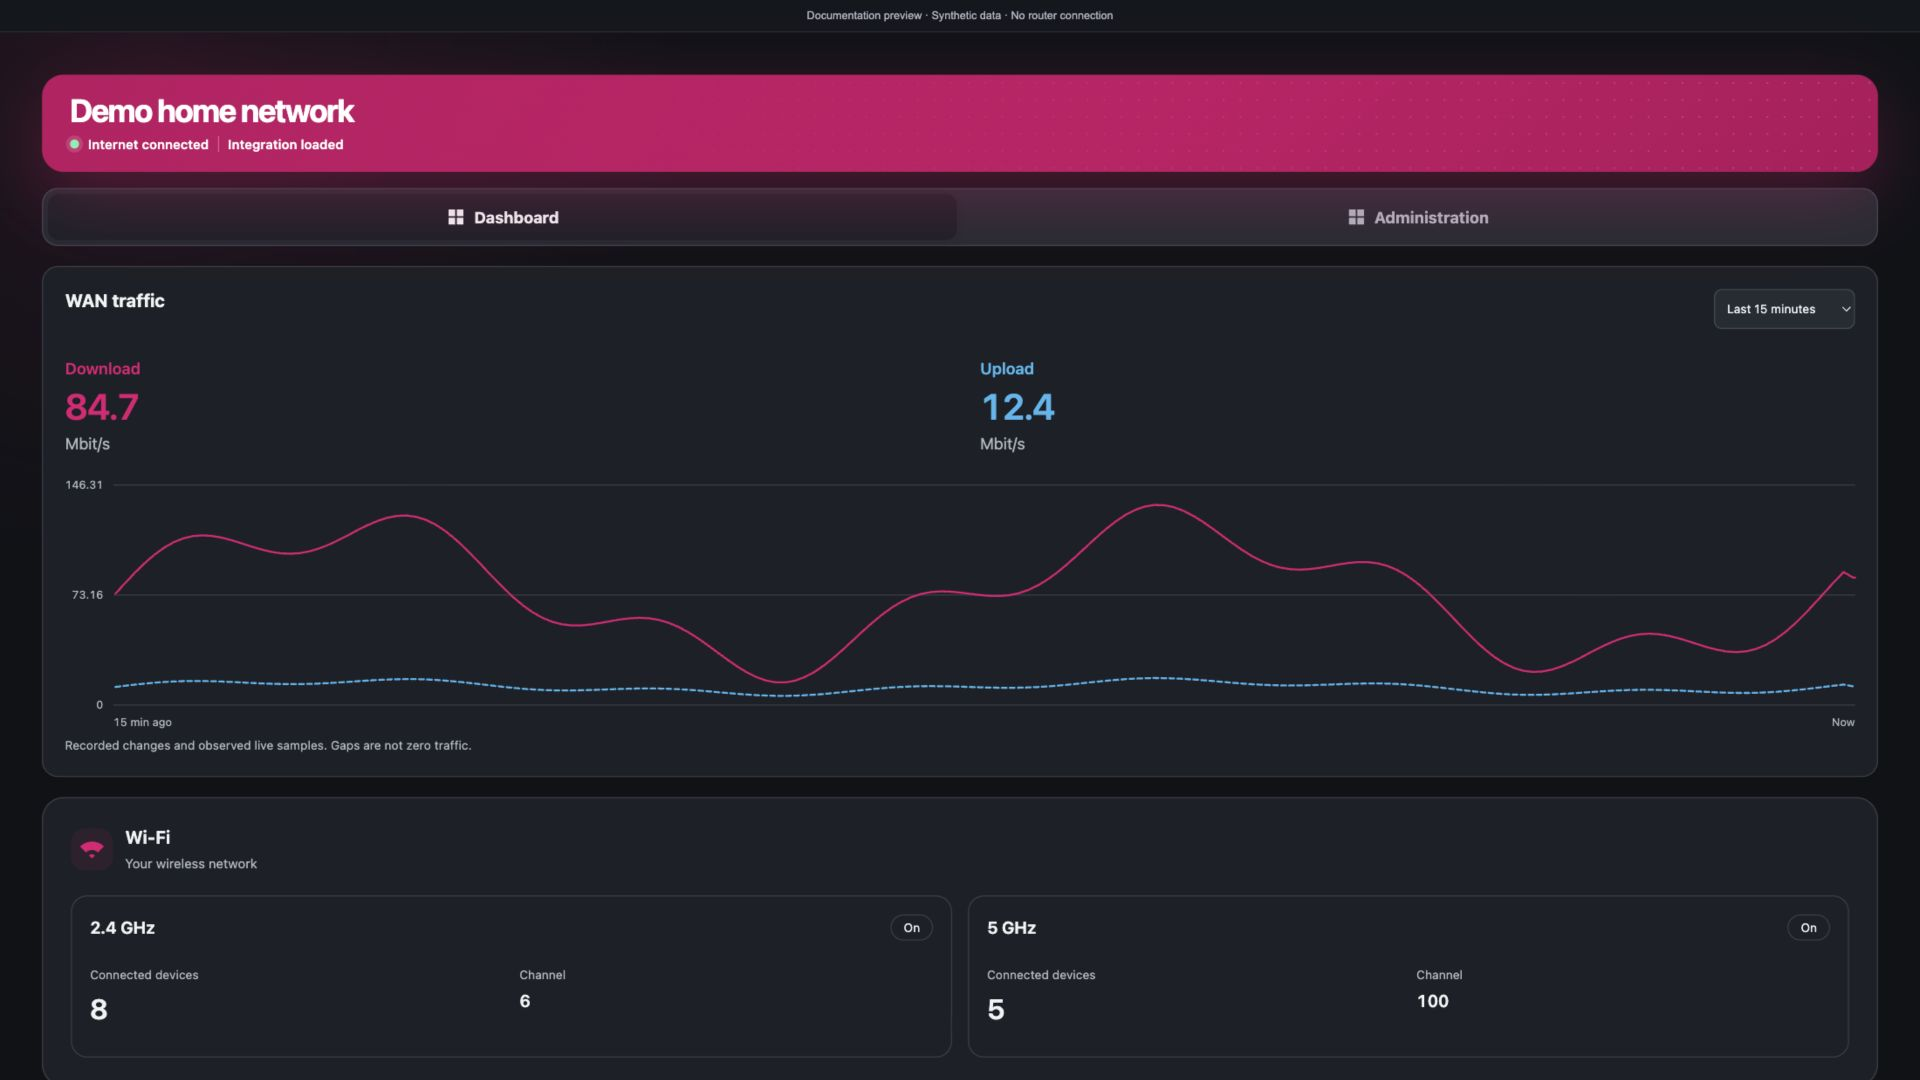
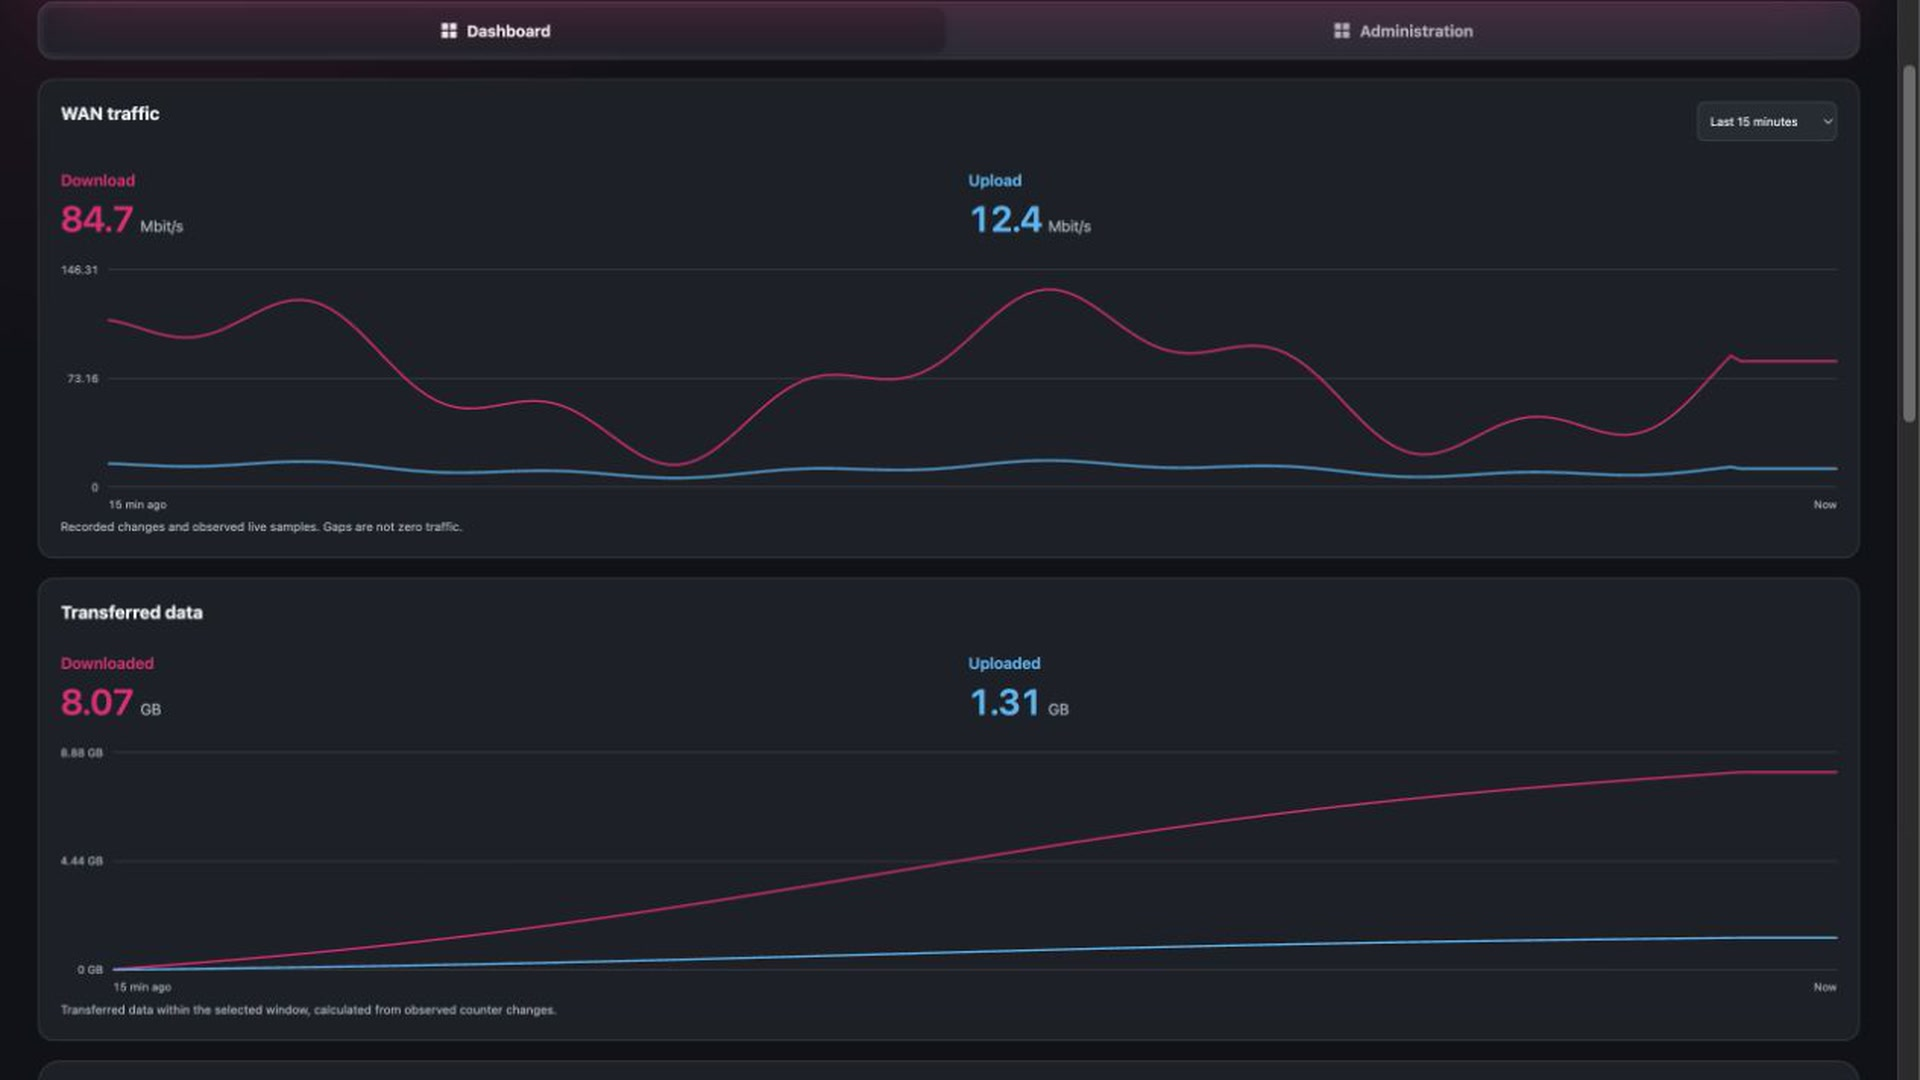
docs(release): finalize v0.3.0 candidate

diff --git a/docs/HACS_SUBMISSION.md b/docs/HACS_SUBMISSION.md
@@ -91,15 +91,16 @@ during the clean-install smoke test.
 
 Reference: **https://developers.home-assistant.io/docs/core/integration/brand_images/**
 
-## Version 0.3.0 release preparation
+## Version 0.3.0 release process
 
-The **0.3.0** stable release is in preparation, not published. The candidate has
-matching source versions, a dated changelog, versioned release notes and the
+The **0.3.0** release uses matching source versions, a dated changelog,
+versioned release notes and the
 [promotion checklist](releases/0.3.0-checklist.md). Its combined scope includes
 consecutive-sample WAN rates, focus-based polling priority and separate rate and
-transferred-volume graphs with a shared time window. Validate the exact combined
-candidate and its archive; earlier beta results do not certify later edits.
-Owner testing remains a requirement before merging the release pull request.
+transferred-volume graphs with a shared time window. Promotion requires
+validating the exact combined candidate and its archive; earlier beta results do
+not certify later edits. Owner testing is required before merging the release
+pull request.
 
 1. Push the tested <code>feat/*</code> branch only when it is ready to publish
    a beta prerelease.
@@ -119,7 +120,7 @@ Owner testing remains a requirement before merging the release pull request.
    publish the full stable release **v0.3.0** with both release assets and the
    prepared release notes.
 7. Install the stable asset through HACS and repeat the clean-install smoke
-   test before updating the default-catalog submission.
+   test before rechecking the default-catalog submission.
 
 If any remote check is red, fix it before publishing or promoting a release.
 Do not update the default-catalog request with claims about unreleased code.
@@ -128,11 +129,13 @@ Do not update the default-catalog request with claims about unreleased code.
 
 Only the repository owner or a major contributor should submit.
 
-The catalog request may remain open during release promotion. Update it only
-after the stable **v0.3.0** release and its install smoke test are complete.
-The existing submission is [hacs/default#10514](https://github.com/hacs/default/pull/10514).
-Check its current status and update that request rather than creating a
-duplicate. Do not mark the repository as listed before acceptance.
+The catalog request may remain open during release promotion. The existing
+submission is [hacs/default#10514](https://github.com/hacs/default/pull/10514).
+Repository and release changes are reflected automatically during review, so
+recheck that request after the stable **v0.3.0** install smoke test, leave it
+queued, and respond only if a HACS maintainer asks for changes or evidence. Do
+not comment merely to announce the release, create a duplicate, or mark the
+repository as listed before acceptance.
 
 1. Fork **https://github.com/hacs/default** under a personal account.
 2. Create a fresh branch from its **master** branch.

diff --git a/docs/releases/0.3.0.md b/docs/releases/0.3.0.md
@@ -4,9 +4,8 @@ This release brings router-style Administration and a focused network Dashboard
 to the same Home Assistant integration. The integration domain remains
 `speedport_smart`; no separate dashboard installation is required.
 
-These notes describe the combined 0.3.0 candidate. The stable release has not
-been published; the candidate must pass its checks and owner testing before the
-release pull request is merged. Earlier beta results do not validate later edits.
+Publication requires the combined 0.3.0 candidate to pass its checks and owner
+testing. Earlier beta results do not validate later edits.
 
 ## Highlights
 
@@ -93,8 +92,8 @@ release pull request is merged. Earlier beta results do not validate later edits
 1. Take a Home Assistant backup before upgrading. Keep local access to the
    router and its password available.
 2. Update the existing **Telekom Speedport Smart** repository through HACS to
-   **0.3.0** after that stable release is published. Beta users can select the
-   stable version and turn off prereleases if they want only stable updates.
+   the published stable **0.3.0** version. Beta users can select the stable
+   version and turn off prereleases if they want only stable updates.
 3. Restart Home Assistant, then reload the dashboard browser page to replace
    older frontend modules. Do not remove and re-add the integration.
 4. Use **Logout** in any open router web interface before checking protected
@@ -136,11 +135,10 @@ does not change any router setting. WAN history is not disabled or erased.
   fields and the absence of automatic saves. This is not live write validation.
   The read-only audit identified a separate LED parser mismatch: the typed
   editor rejected valid symbolic firmware values. Offline regressions cover
-  that mismatch, prerequisite explanations and deferred page recovery. The
-  owner still needs to validate the combined candidate before stable
-  publication, including both graphs, window changes, focus transitions,
-  preserved history and private page reads. Offline results alone do not
-  establish their behavior in the installed dashboard.
+  that mismatch, prerequisite explanations and deferred page recovery.
+  Installed validation should cover both graphs, window changes, focus
+  transitions, preserved history and private page reads. Offline results alone
+  do not establish their behavior on every installation.
 - Passwords are not prefilled. Contacts, call lists, credentials and private
   downloads stay out of normal entities and Recorder. Downloads such as backups,
   Router-Pass, VPN files and system logs can contain secrets and must be handled

diff --git a/CHANGELOG.md b/CHANGELOG.md
@@ -10,8 +10,6 @@ Automated feature-branch prereleases are intentionally not listed one by one.
 
 ## [0.3.0] - 2026-09-03
 
-Release preparation; stable publication and final owner testing remain pending.
-
 ### Upgrade notes
 
 - Update the existing integration through HACS, restart Home Assistant, then
@@ -218,7 +216,6 @@ Release preparation; stable publication and final owner testing remain pending.
   without discarding its draft or revision. Reads wait for an in-flight save,
   preserve its result, and are cancelled on page or identity changes. Repeated
   metadata and WAN updates do not retry failed sections or repeat writes.
-  Final candidate owner validation remains pending.
 - Dashboard summary cards now fill each row after the full-width Wi-Fi section,
   including partial rows on tablets, without reserving empty desktop columns.
 - WAN graph freshness now prefers the newest valid successful sample timestamp
@@ -226,8 +223,7 @@ Release preparation; stable publication and final owner testing remain pending.
   a Home Assistant clock up to five seconds ahead of the browser without
   rewriting timestamps; larger clock leads, genuinely stale values and
   unavailable samples still produce gaps. This chart fix does not change the
-  WAN polling policy described above. The combined release candidate still
-  requires owner confirmation before the release PR can be merged.
+  WAN polling policy described above.
 - Native call-list pages load their own category automatically. Concurrent
   settings saves blocked before dispatch now explicitly report that nothing
   was sent; session recovery preserves the outcome of an active save.

diff --git a/docs/releases/0.3.0-checklist.md b/docs/releases/0.3.0-checklist.md
@@ -29,7 +29,7 @@ files or earlier beta results.
   window, initially 15 minutes. Volume comes from observed byte-counter deltas,
   with automatic MB/GB/TB units and explicit partial coverage, not rate
   integration, additional router polling or changed Recorder settings.
-- [ ] Dark-mode desktop (1920 × 1080) and mobile (430 × 932) Dashboard previews
+- [x] Dark-mode desktop (1920 × 1080) and mobile (430 × 932) Dashboard previews
   are refreshed from the combined frontend using dummy data only. Verify both
   graphs and ensure no private router data appears.
 - [ ] Final candidate CI passes minimum Home Assistant, pinned-current Home
@@ -121,8 +121,9 @@ job's name, define what was tested.
   preserved WAN history, entity presence, settings reads and both themes.
 - [ ] Check clean installation/removal separately when an appropriate test
   instance is available. Do not infer those results from an upgrade alone.
-- [ ] Only after stable installation is confirmed, update the existing HACS
-  submission with the actual release and validation evidence.
+- [ ] After stable installation is confirmed, recheck the existing HACS
+  submission. Leave the queued request untouched and respond only if a HACS
+  maintainer asks for changes or validation evidence.
 
 The release does not imply that disruptive settings, firmware updates, resets,
 credential changes or other router writes were exercised. Those require separate,

diff --git a/README.md b/README.md
@@ -45,8 +45,9 @@ The bundled dashboard follows Home Assistant's active light or dark theme and
 adapts to both desktop and mobile layouts. These current dark-theme previews use
 only synthetic names, traffic and connection data, rendered by the actual
 dashboard. No private router or household information is shown. The captures
-show the top of the Dashboard; see the [dashboard guide](docs/dashboard.md) for
-the remaining connection cards and Administration navigation.
+focus on the shared-window WAN traffic and transferred-data graphs; see the
+[dashboard guide](docs/dashboard.md) for the remaining connection cards and
+Administration navigation.
 
 ### Desktop
 
